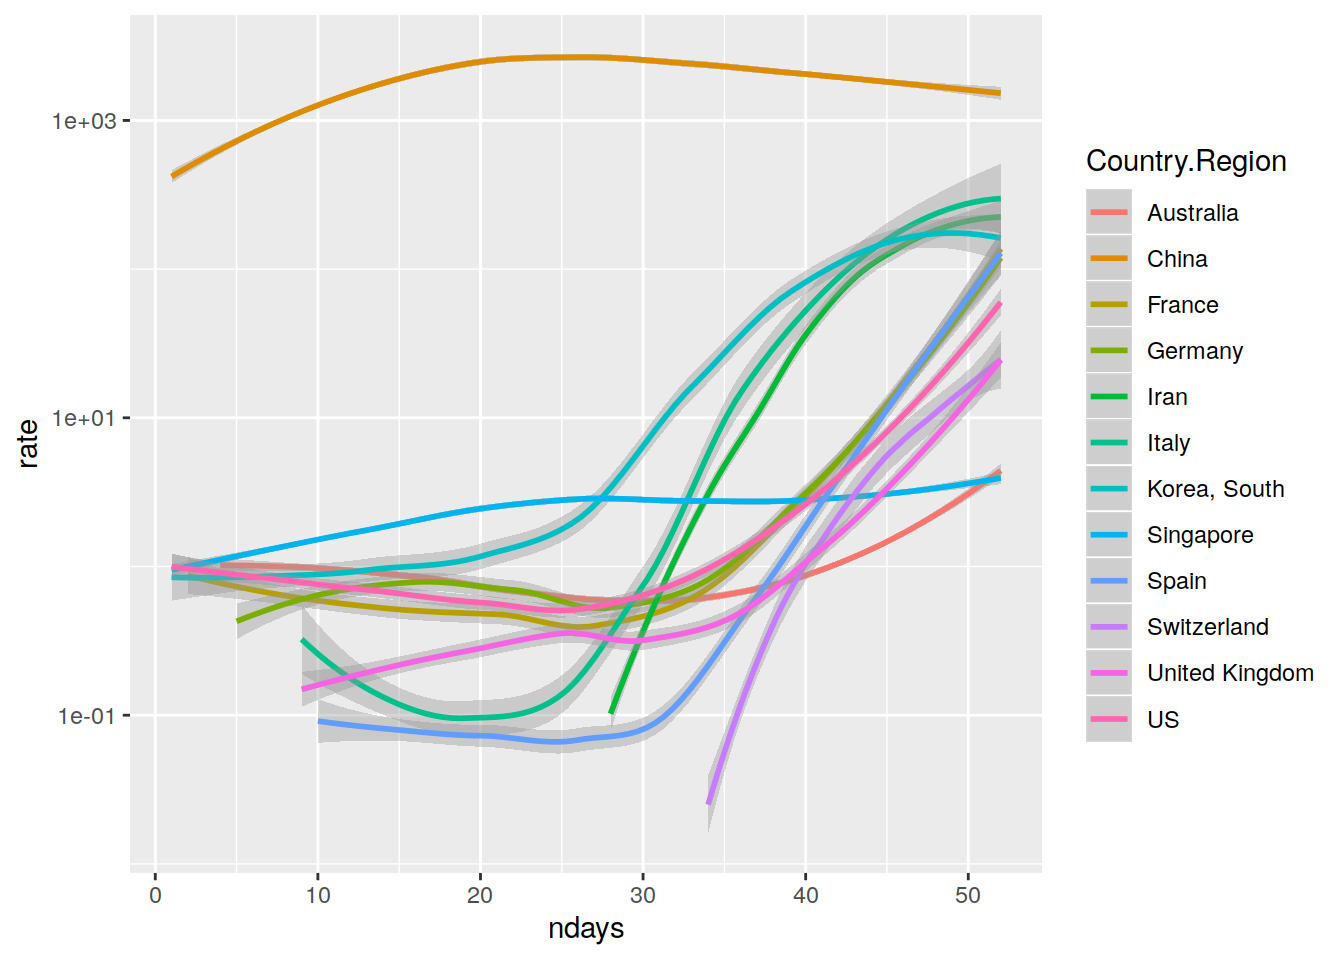
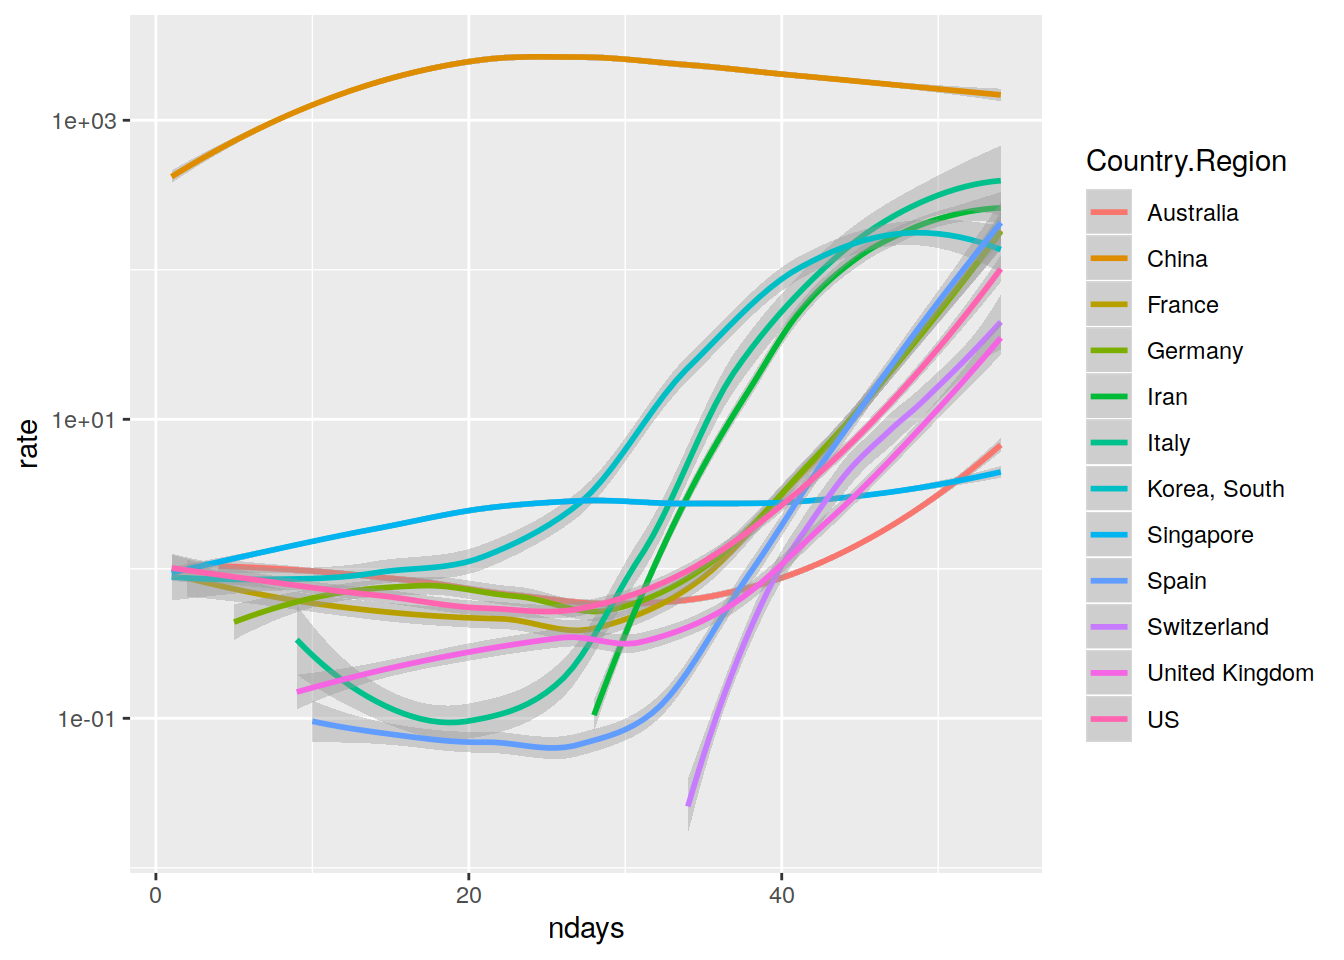
Build site.

diff --git a/docs/basic_stats.html b/docs/basic_stats.html
@@ -406,7 +406,7 @@ div.section {
 <div class="tab-content">
 <div id="summary" class="tab-pane fade in active">
 <p>
-<strong>Last updated:</strong> 2020-03-16
+<strong>Last updated:</strong> 2020-03-17
 </p>
 <p>
 <strong>Checks:</strong> <span class="glyphicon glyphicon-ok text-success" aria-hidden="true"></span> 7 <span class="glyphicon glyphicon-exclamation-sign text-danger" aria-hidden="true"></span> 0
@@ -497,16 +497,19 @@ This reproducible <a href="http://rmarkdown.rstudio.com">R Markdown</a> analysis
 <div class="panel panel-default">
 <div class="panel-heading">
 <p class="panel-title">
-<a data-toggle="collapse" data-parent="#workflowr-checks" href="#strongRepositoryversionstrongahrefhttpsgithubcomdewollercovid19treed26169af555302058ad3a28b23a4d7cf4adb5c5ftargetblankd26169aa"> <span class="glyphicon glyphicon-ok text-success" aria-hidden="true"></span> <strong>Repository version:</strong> <a href="https://github.com/dewoller/covid-19/tree/d26169af555302058ad3a28b23a4d7cf4adb5c5f" target="_blank">d26169a</a> </a>
+<a data-toggle="collapse" data-parent="#workflowr-checks" href="#strongRepositoryversionstrongahrefhttpsgithubcomdewollercovid19tree7469906fb467abd7d18bf921093e4bd661c5374ctargetblank7469906a"> <span class="glyphicon glyphicon-ok text-success" aria-hidden="true"></span> <strong>Repository version:</strong> <a href="https://github.com/dewoller/covid-19/tree/7469906fb467abd7d18bf921093e4bd661c5374c" target="_blank">7469906</a> </a>
 </p>
 </div>
[2 lines of base64/hex data omitted]
 <div class="panel-body">
 <p>
 Great! You are using Git for version control. Tracking code development and connecting the code version to the results is critical for reproducibility. The version displayed above was the version of the Git repository at the time these results were generated. <br><br> Note that you need to be careful to ensure that all relevant files for the analysis have been committed to Git prior to generating the results (you can use <code>wflow_publish</code> or <code>wflow_git_commit</code>). workflowr only checks the R Markdown file, but you know if there are other scripts or data files that it depends on. Below is the status of the Git repository when the results were generated:
 </p>
 <pre><code>
 Untracked files:
+    Untracked:  analysis/hospital_beds.Rmd
+    Untracked:  data/aihw-hse-233-data-tables.xlsx
+    Untracked:  data/~$aihw-hse-233-data-tables.xlsx
     Untracked:  scripts/
 
 </code></pre>
@@ -546,6 +549,23 @@ Message
 </tr>
 </thead>
 <tbody>
+<tr>
+<td>
+html
+</td>
+<td>
+<a href="https://rawcdn.githack.com/dewoller/covid-19/7469906fb467abd7d18bf921093e4bd661c5374c/docs/basic_stats.html" target="_blank">7469906</a>
+</td>
+<td>
+Dennis Wollersheim
+</td>
+<td>
+2020-03-15
+</td>
+<td>
+Build site.
+</td>
+</tr>
 <tr>
 <td>
 Rmd
@@ -847,6 +867,17 @@ Date
 <tbody>
 <tr>
 <td>
+<a href="https://github.com/dewoller/covid-19/blob/7469906fb467abd7d18bf921093e4bd661c5374c/docs/figure/basic_stats.Rmd/unnamed-chunk-1-1.png" target="_blank">7469906</a>
+</td>
+<td>
+Dennis Wollersheim
+</td>
+<td>
+2020-03-15
+</td>
+</tr>
+<tr>
+<td>
 <a href="https://github.com/dewoller/covid-19/blob/f0e98f86fce0d5cc1b4d630f508f58aa0012dc6a/docs/figure/basic_stats.Rmd/unnamed-chunk-1-1.png" target="_blank">f0e98f8</a>
 </td>
 <td>
@@ -923,6 +954,17 @@ Date
 </tr>
 </thead>
 <tbody>
+<tr>
+<td>
+<a href="https://github.com/dewoller/covid-19/blob/7469906fb467abd7d18bf921093e4bd661c5374c/docs/figure/basic_stats.Rmd/unnamed-chunk-2-1.png" target="_blank">7469906</a>
+</td>
+<td>
+Dennis Wollersheim
+</td>
+<td>
+2020-03-15
+</td>
+</tr>
 <tr>
 <td>
 <a href="https://github.com/dewoller/covid-19/blob/f0e98f86fce0d5cc1b4d630f508f58aa0012dc6a/docs/figure/basic_stats.Rmd/unnamed-chunk-2-1.png" target="_blank">f0e98f8</a>
@@ -1010,6 +1052,17 @@ Date
 <tbody>
 <tr>
 <td>
+<a href="https://github.com/dewoller/covid-19/blob/7469906fb467abd7d18bf921093e4bd661c5374c/docs/figure/basic_stats.Rmd/unnamed-chunk-3-1.png" target="_blank">7469906</a>
+</td>
+<td>
+Dennis Wollersheim
+</td>
+<td>
+2020-03-15
+</td>
+</tr>
+<tr>
+<td>
 <a href="https://github.com/dewoller/covid-19/blob/f0e98f86fce0d5cc1b4d630f508f58aa0012dc6a/docs/figure/basic_stats.Rmd/unnamed-chunk-3-1.png" target="_blank">f0e98f8</a>
 </td>
 <td>
@@ -1092,6 +1145,17 @@ Date
 </tr>
 </thead>
 <tbody>
+<tr>
+<td>
+<a href="https://github.com/dewoller/covid-19/blob/7469906fb467abd7d18bf921093e4bd661c5374c/docs/figure/basic_stats.Rmd/unnamed-chunk-4-1.png" target="_blank">7469906</a>
+</td>
+<td>
+Dennis Wollersheim
+</td>
+<td>
+2020-03-15
+</td>
+</tr>
 <tr>
 <td>
 <a href="https://github.com/dewoller/covid-19/blob/f0e98f86fce0d5cc1b4d630f508f58aa0012dc6a/docs/figure/basic_stats.Rmd/unnamed-chunk-4-1.png" target="_blank">f0e98f8</a>
@@ -1196,6 +1260,17 @@ Date
 <tbody>
 <tr>
 <td>
+<a href="https://github.com/dewoller/covid-19/blob/7469906fb467abd7d18bf921093e4bd661c5374c/docs/figure/basic_stats.Rmd/unnamed-chunk-5-1.png" target="_blank">7469906</a>
+</td>
+<td>
+Dennis Wollersheim
+</td>
+<td>
+2020-03-15
+</td>
+</tr>
+<tr>
+<td>
 <a href="https://github.com/dewoller/covid-19/blob/f0e98f86fce0d5cc1b4d630f508f58aa0012dc6a/docs/figure/basic_stats.Rmd/unnamed-chunk-5-1.png" target="_blank">f0e98f8</a>
 </td>
 <td>
@@ -1264,6 +1339,17 @@ Date
 <tbody>
 <tr>
 <td>
+<a href="https://github.com/dewoller/covid-19/blob/7469906fb467abd7d18bf921093e4bd661c5374c/docs/figure/basic_stats.Rmd/unnamed-chunk-6-1.png" target="_blank">7469906</a>
+</td>
+<td>
+Dennis Wollersheim
+</td>
+<td>
+2020-03-15
+</td>
+</tr>
+<tr>
+<td>
 <a href="https://github.com/dewoller/covid-19/blob/f0e98f86fce0d5cc1b4d630f508f58aa0012dc6a/docs/figure/basic_stats.Rmd/unnamed-chunk-6-1.png" target="_blank">f0e98f8</a>
 </td>
 <td>
@@ -1300,21 +1386,21 @@ Dennis Wollersheim
   summarise(total_cases = sum(cases), date=max(date)) %&gt;%
   pivot_wider(names_from = type, values_from = total_cases) %&gt;%
   arrange(-confirmed)</code></pre>
-<pre><code># A tibble: 143 x 5
-# Groups:   country [143]
+<pre><code># A tibble: 156 x 5
+# Groups:   country [156]
    country        date       confirmed death recovered
    &lt;chr&gt;          &lt;date&gt;         &lt;int&gt; &lt;int&gt;     &lt;int&gt;
- 1 Italy          2020-03-14      3497   175       527
- 2 Iran           2020-03-14      1365    97         0
- 3 Spain          2020-03-14      1159    62       324
- 4 Germany        2020-03-14       910     2         0
- 5 France         2020-03-14       813    12         0
- 6 US             2020-03-14       548     7         0
- 7 United Kingdom 2020-03-14       342    13         0
- 8 Switzerland    2020-03-14       220     2         0
- 9 Netherlands    2020-03-14       155     2         2
-10 Austria        2020-03-14       151     0         0
-# … with 133 more rows</code></pre>
+ 1 Italy          2020-03-16      3233   349       414
+ 2 Spain          2020-03-16      2144    53        13
+ 3 France         2020-03-16      2137    57         0
+ 4 Germany        2020-03-16      1477     6        21
+ 5 US             2020-03-16      1133    22         5
+ 6 Iran           2020-03-16      1053   129         0
+ 7 United Kingdom 2020-03-16       406    35         2
+ 8 Netherlands    2020-03-16       278     4         0
+ 9 Belgium        2020-03-16       172     1         0
+10 Canada         2020-03-16       163     3         1
+# … with 146 more rows</code></pre>
 <br>
 <p>
 <button type="button" class="btn btn-default btn-workflowr btn-workflowr-sessioninfo" data-toggle="collapse" data-target="#workflowr-sessioninfo" style="display: block;">
